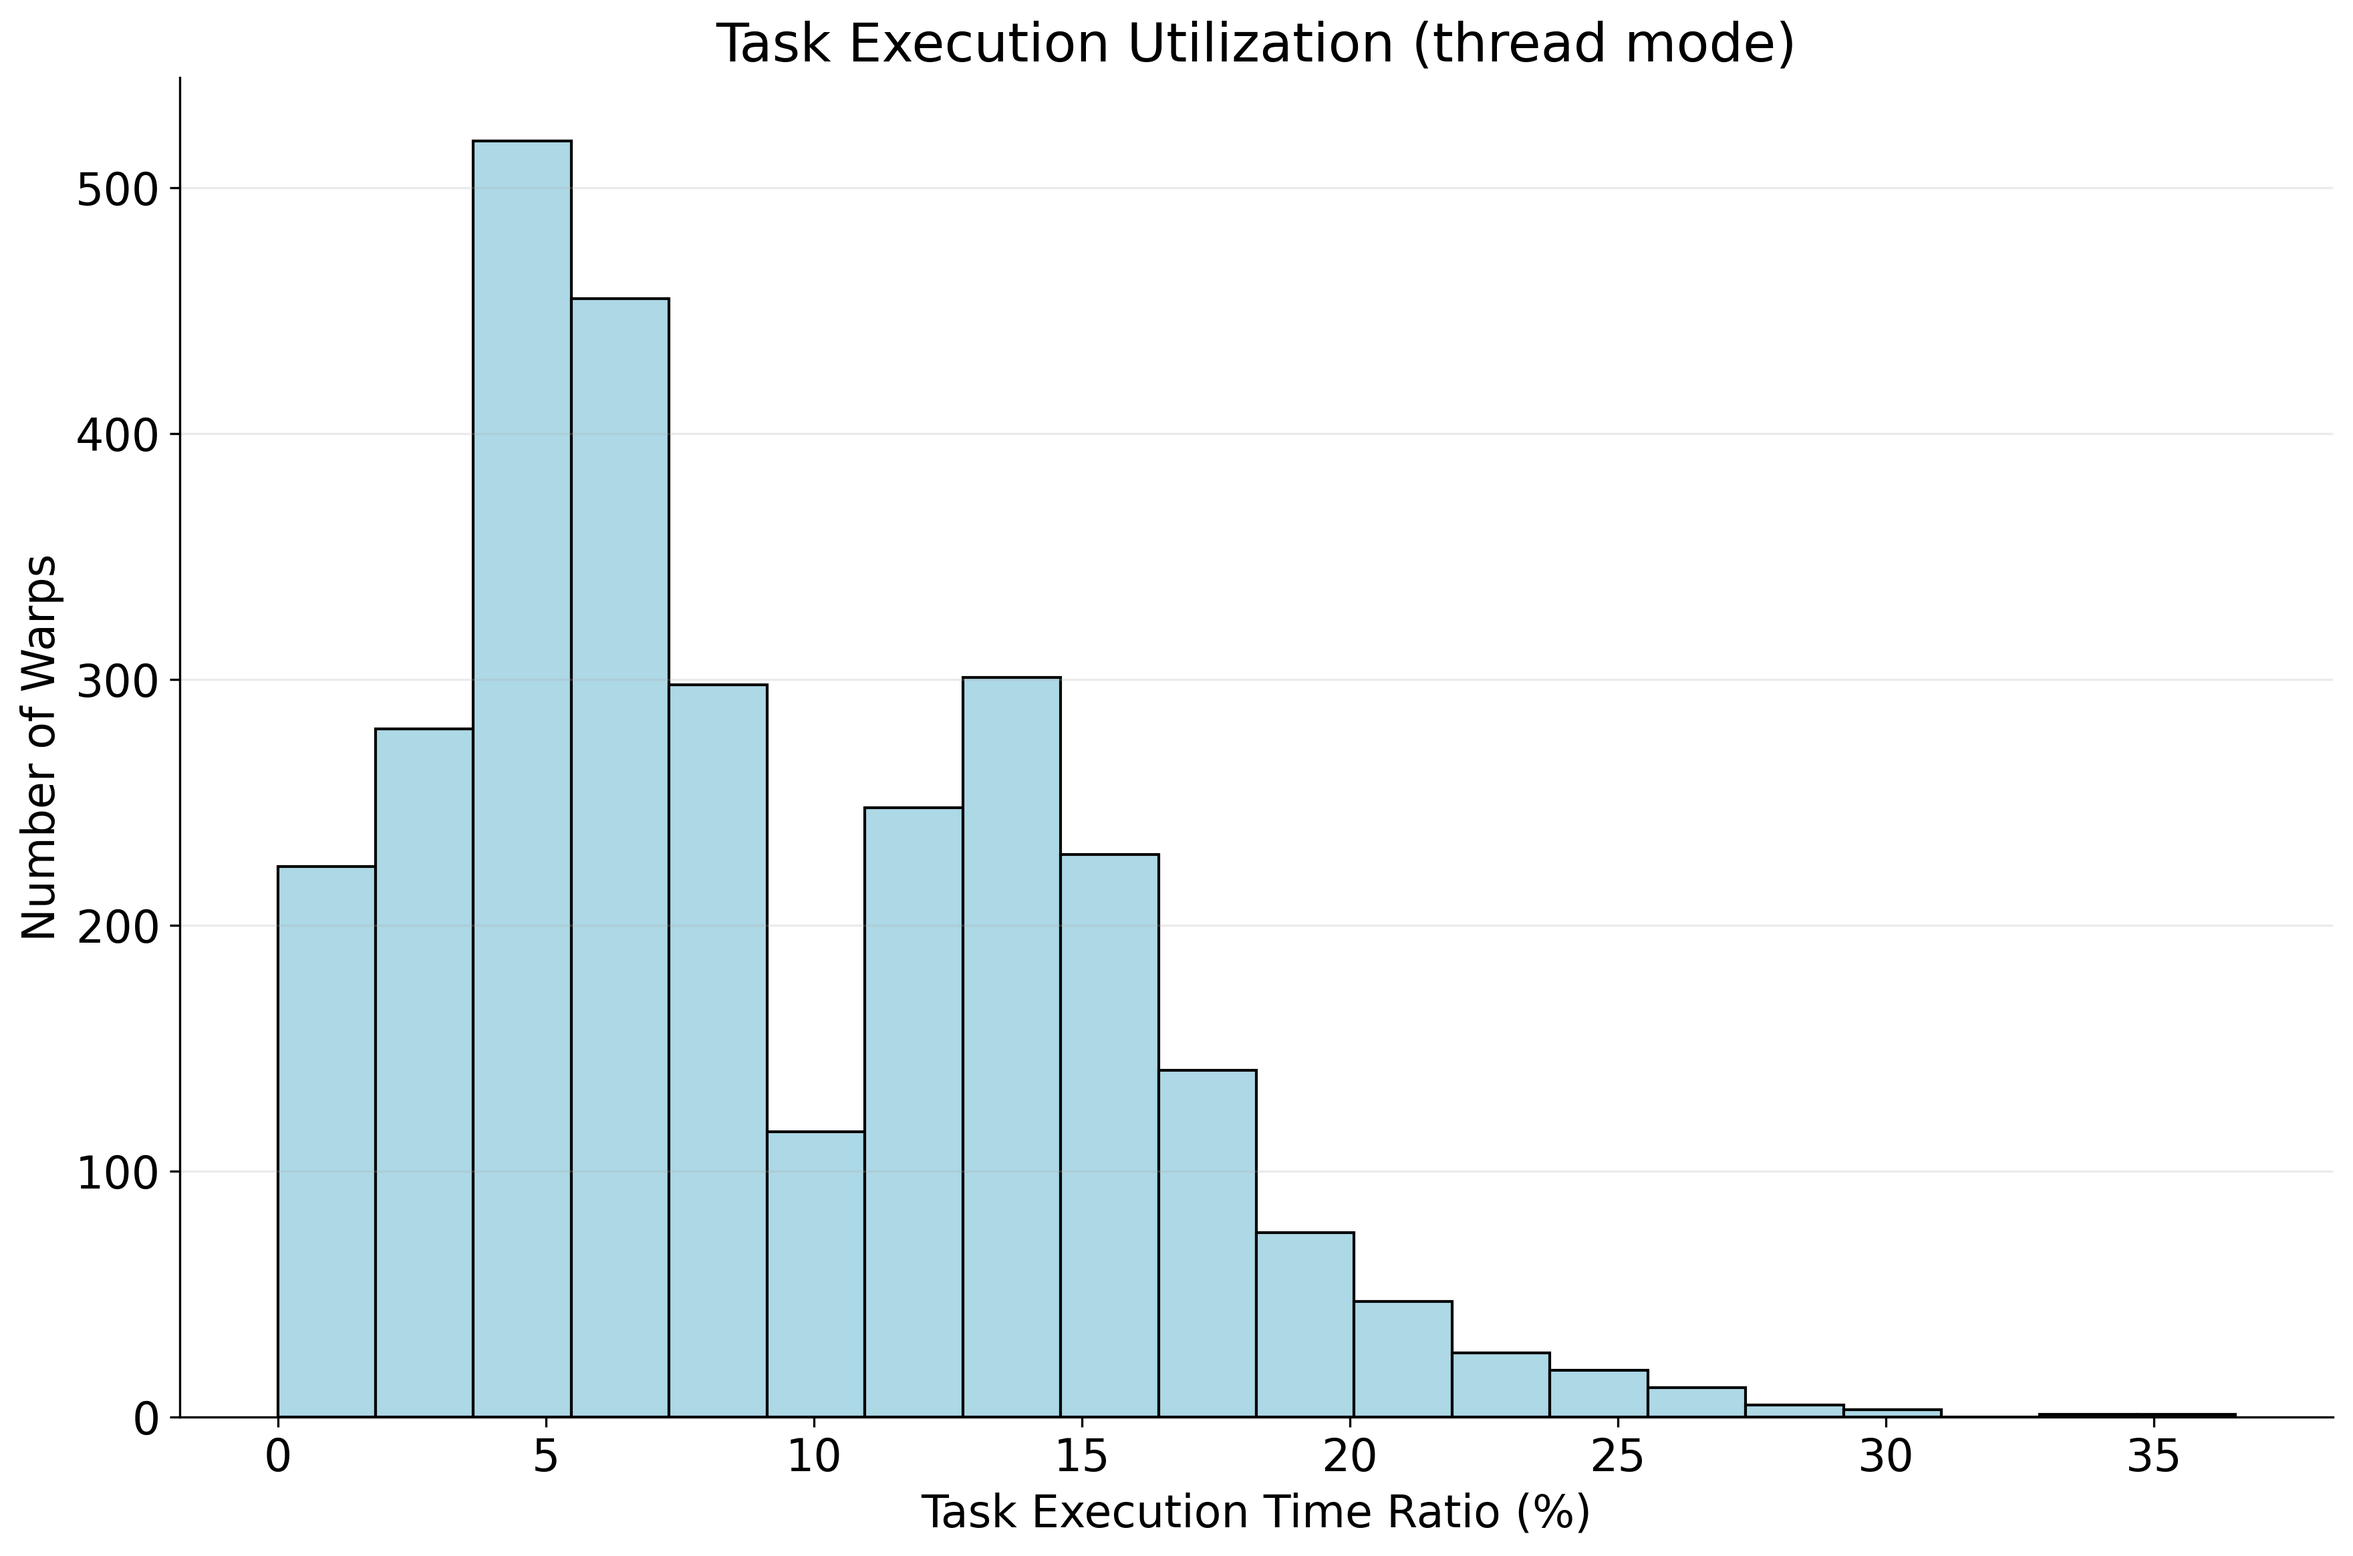
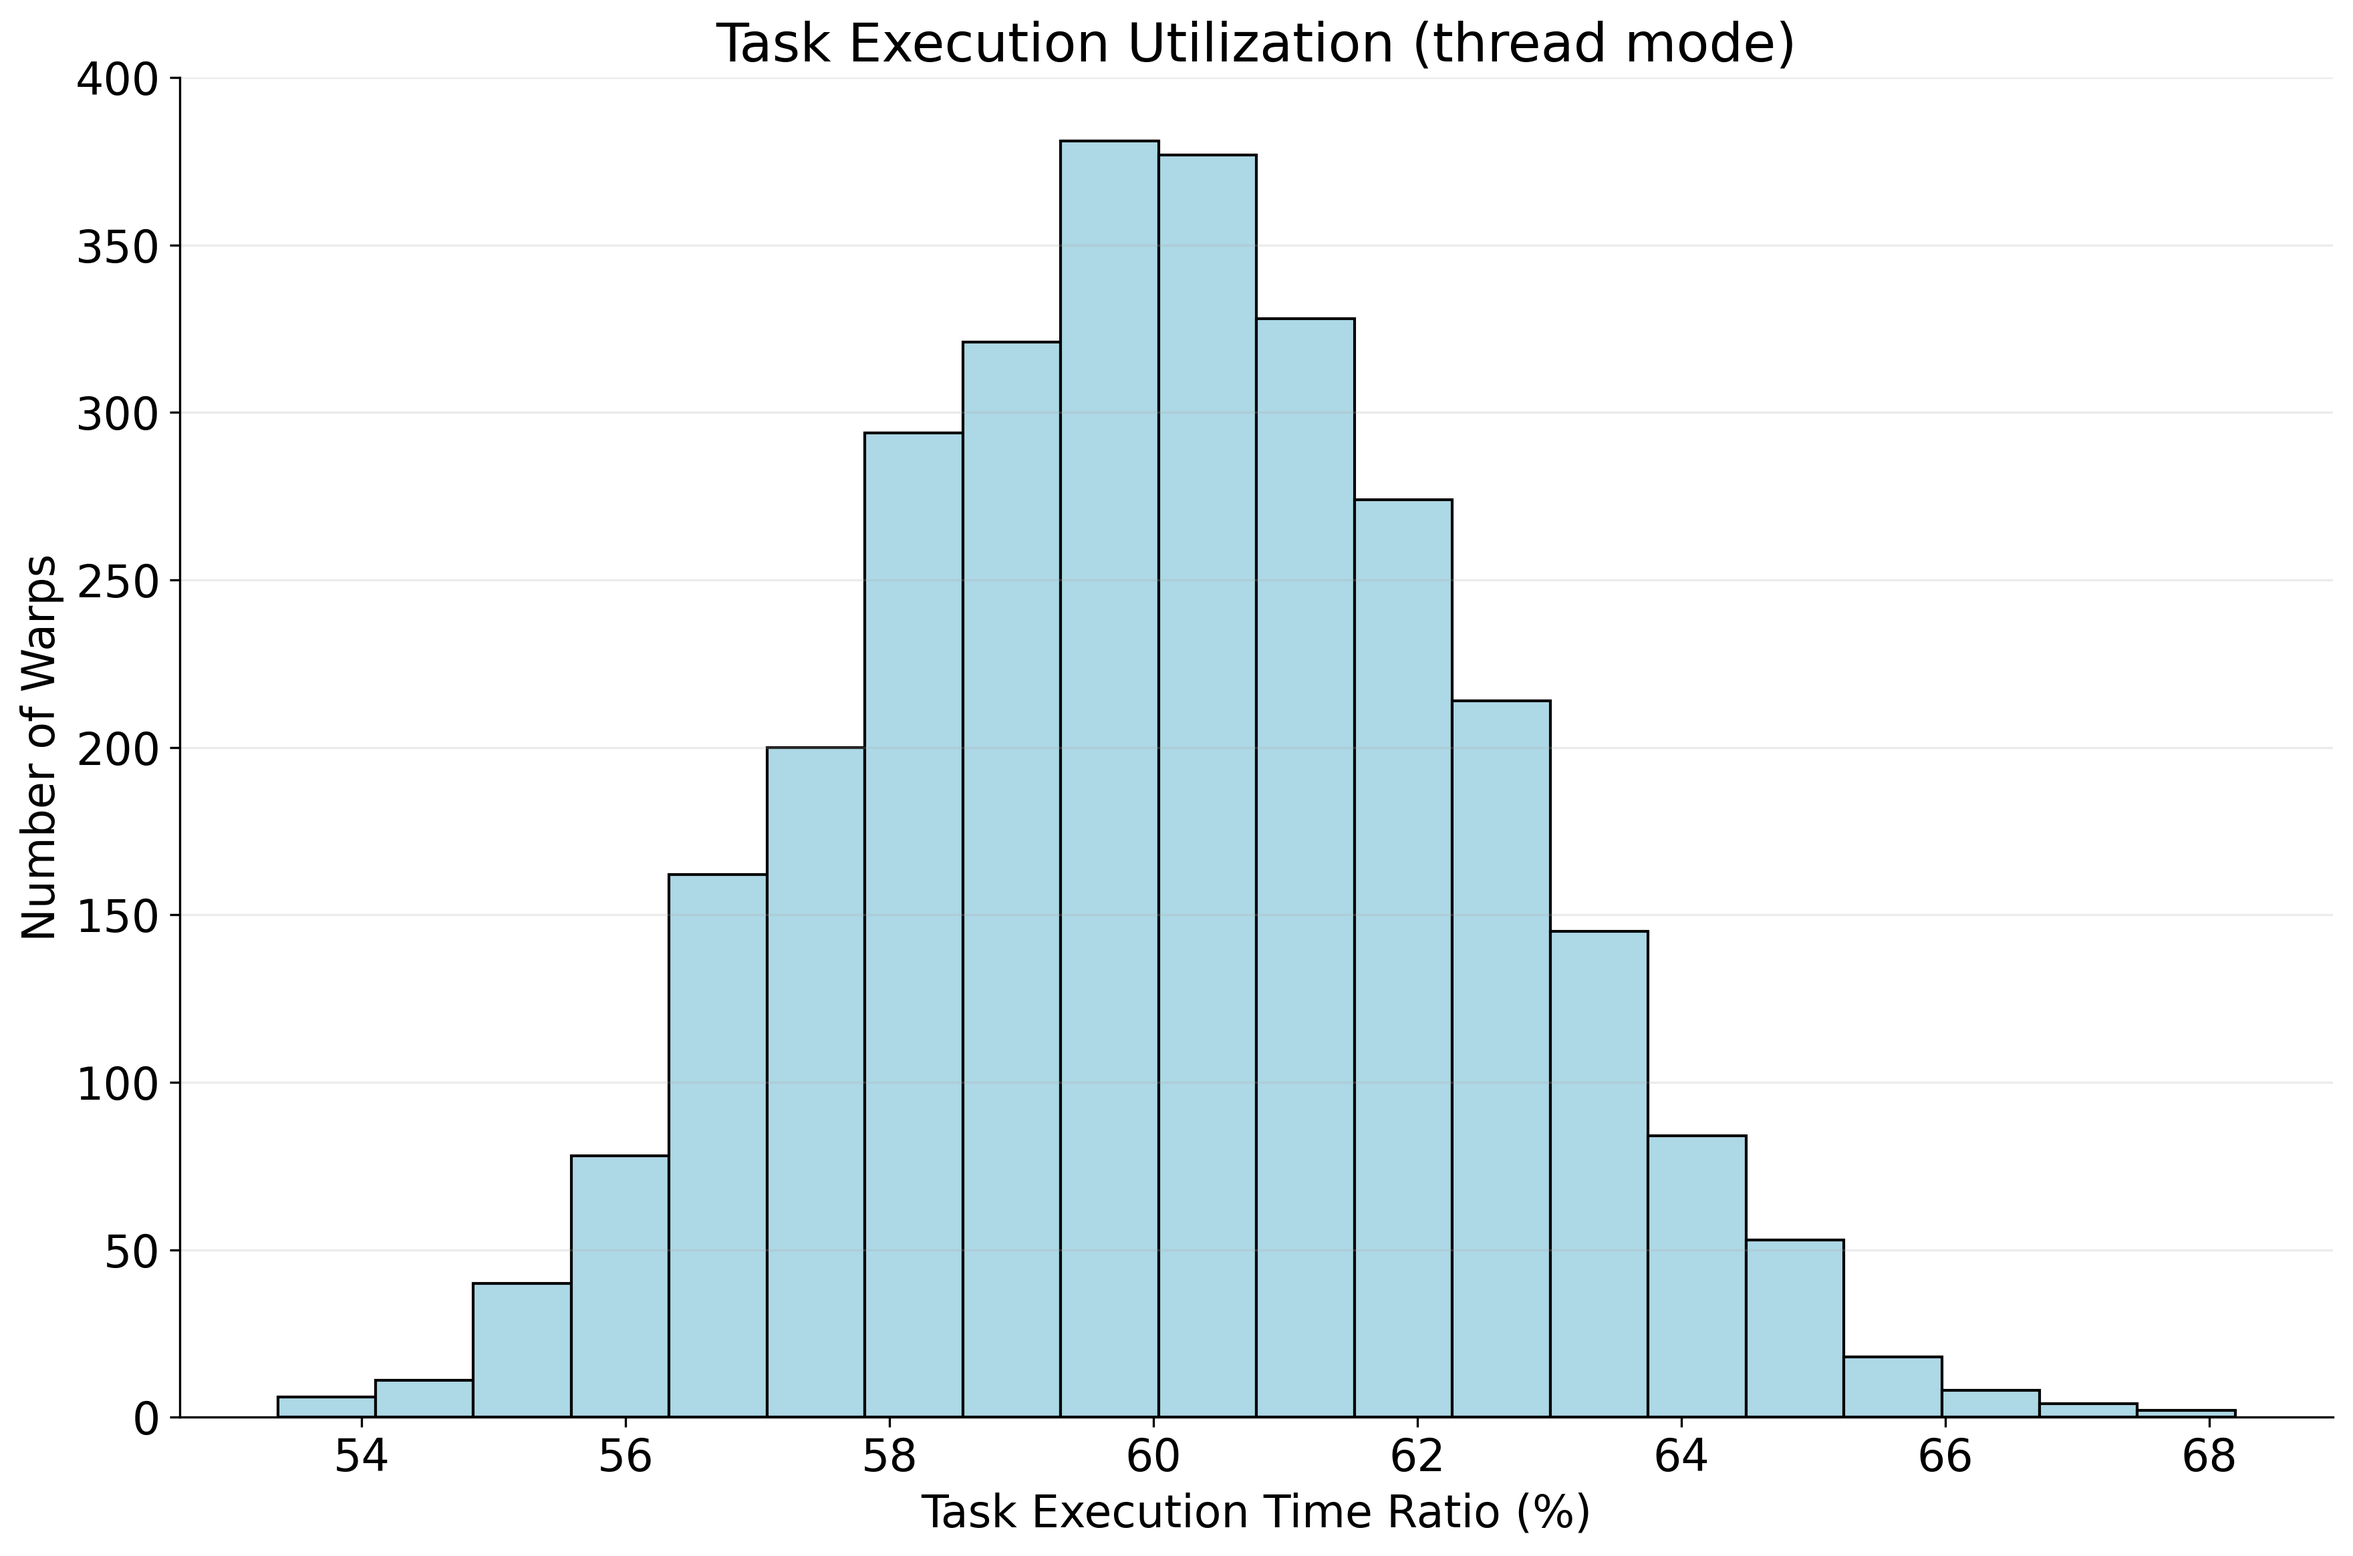
chore: refine profiling configuration and export API

diff --git a/README.md b/README.md
@@ -92,6 +92,8 @@ Detailed instructions for reproducing experimental results are provided in [`eva
 
 GTaP includes a profiler for inspecting GPU-side task scheduling.
 
+![GTaP task execution timeline](examples/fib_profile/img/fib_thread_timeline.png)
+
 Compile with `-DGTAP_ENABLE_PROFILING` to enable profiling.
 
 After executing and synchronizing the GTaP kernel, call:
